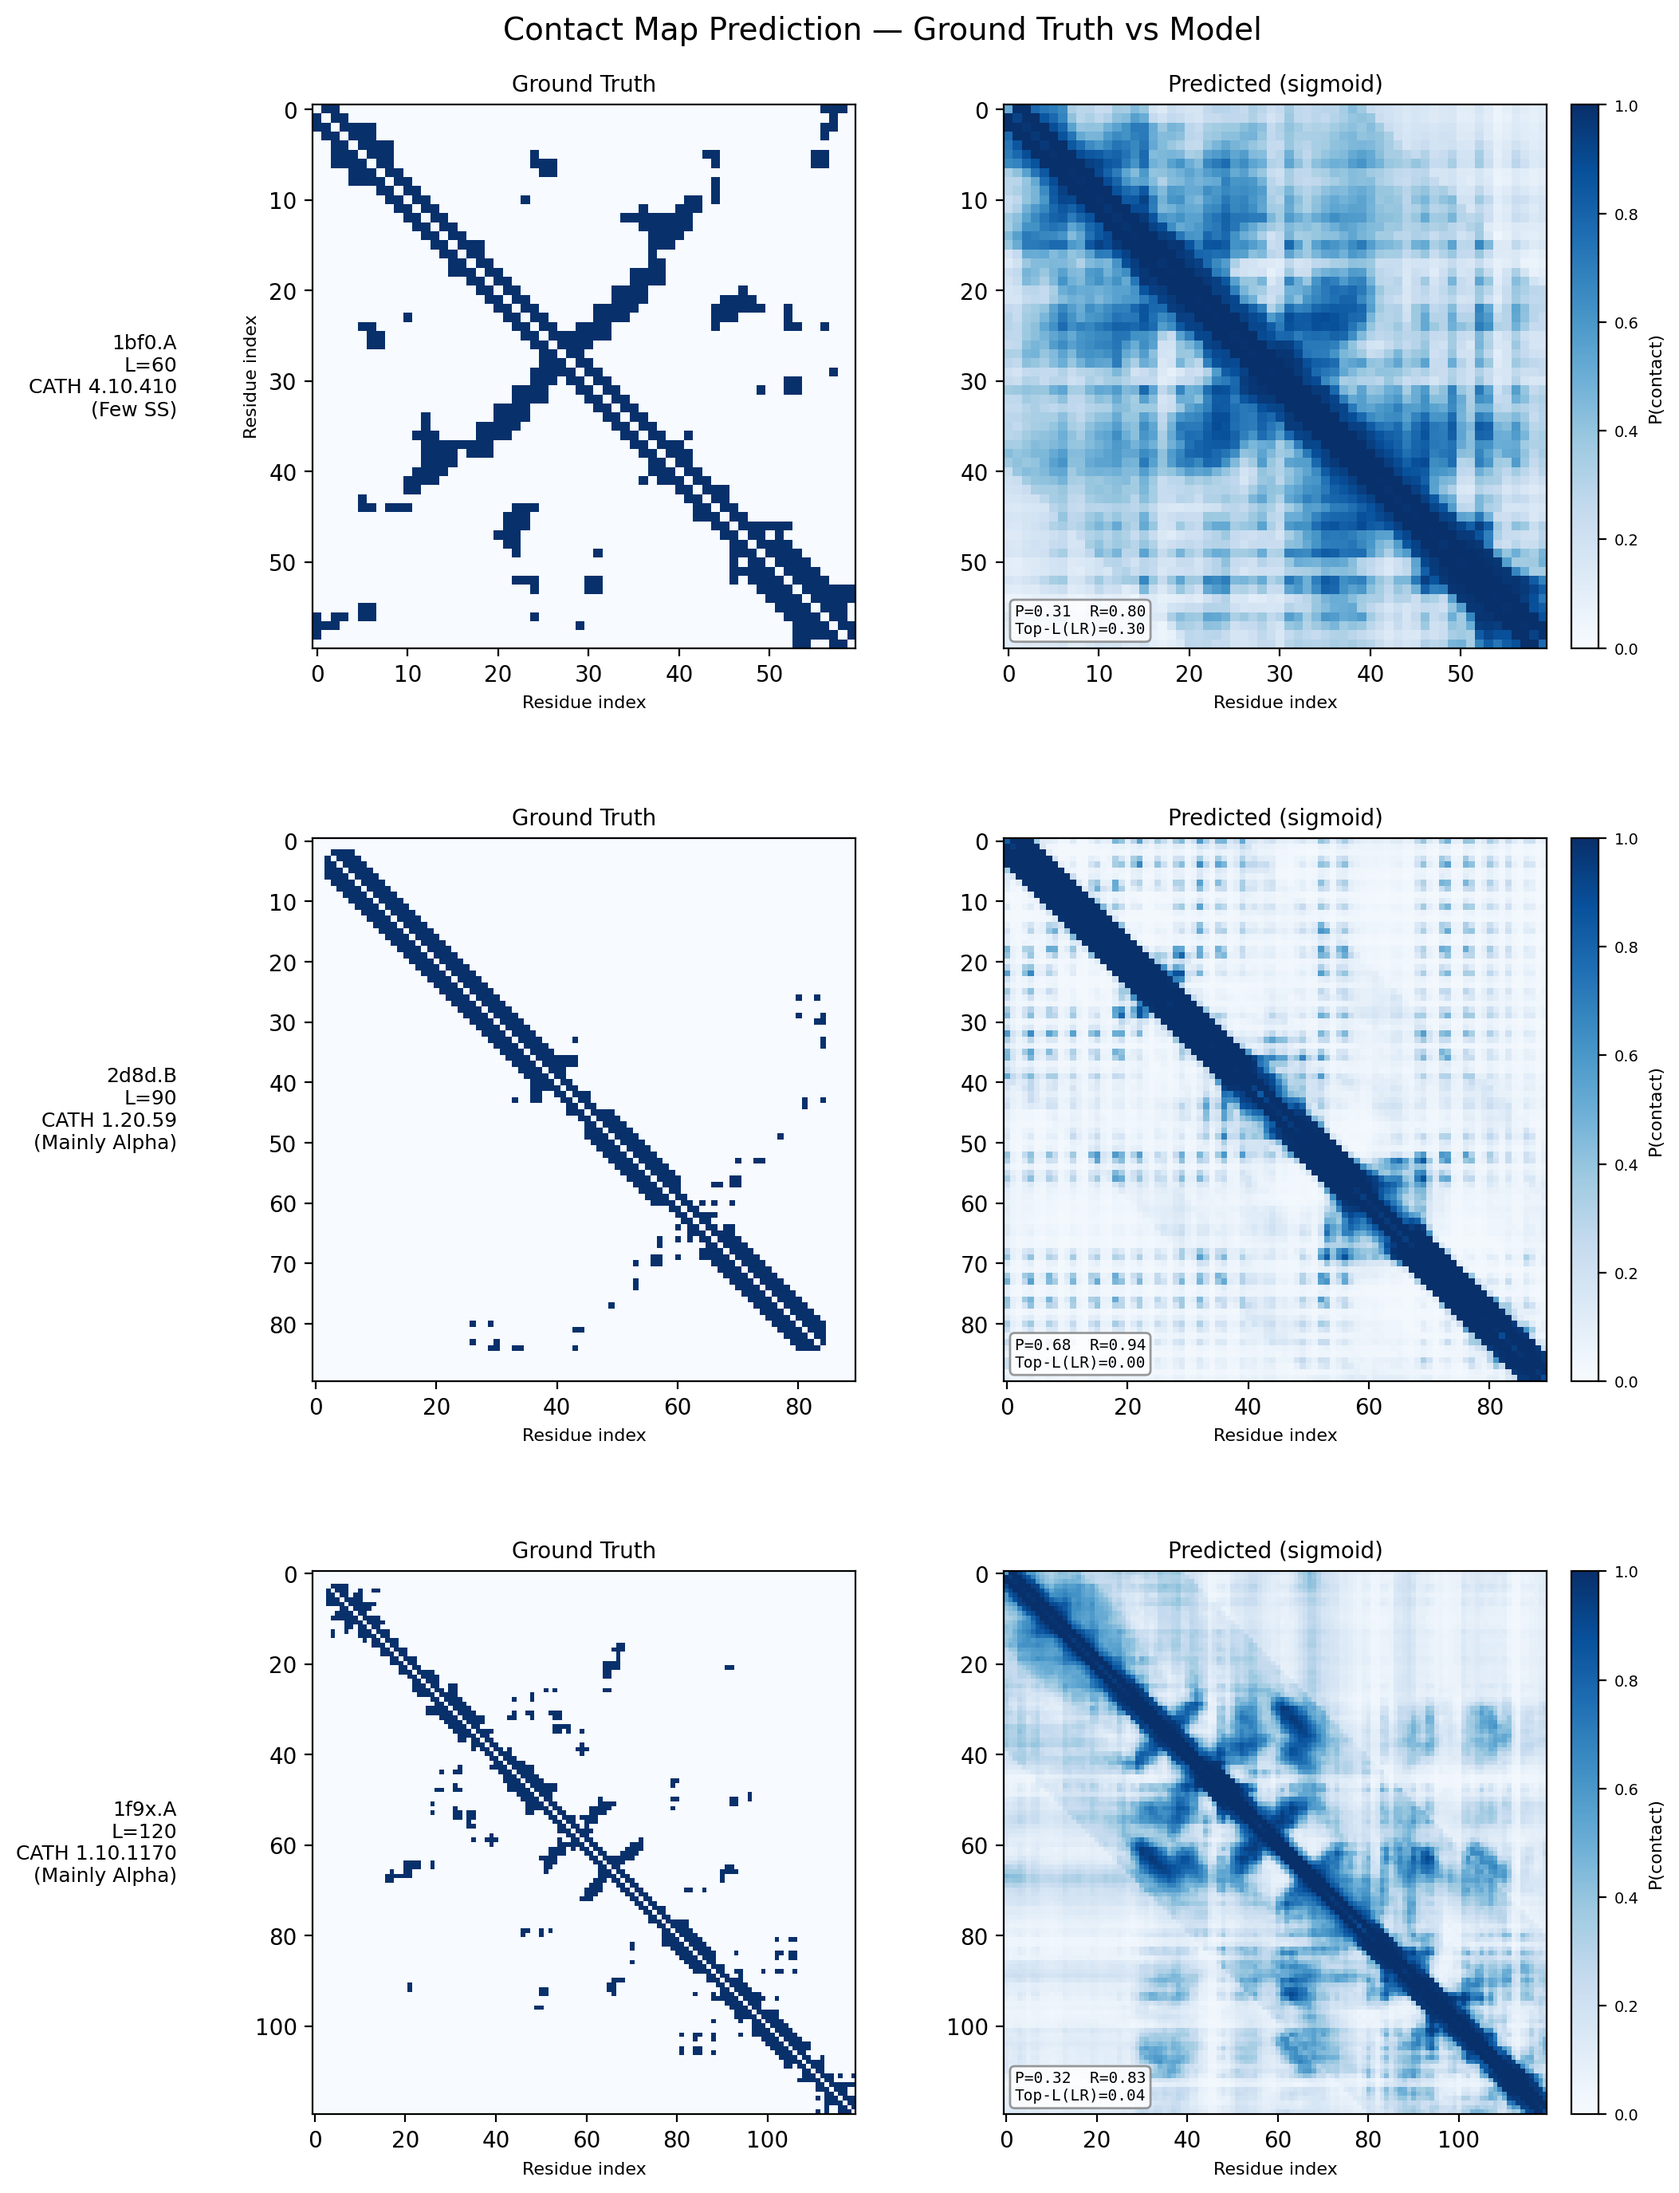
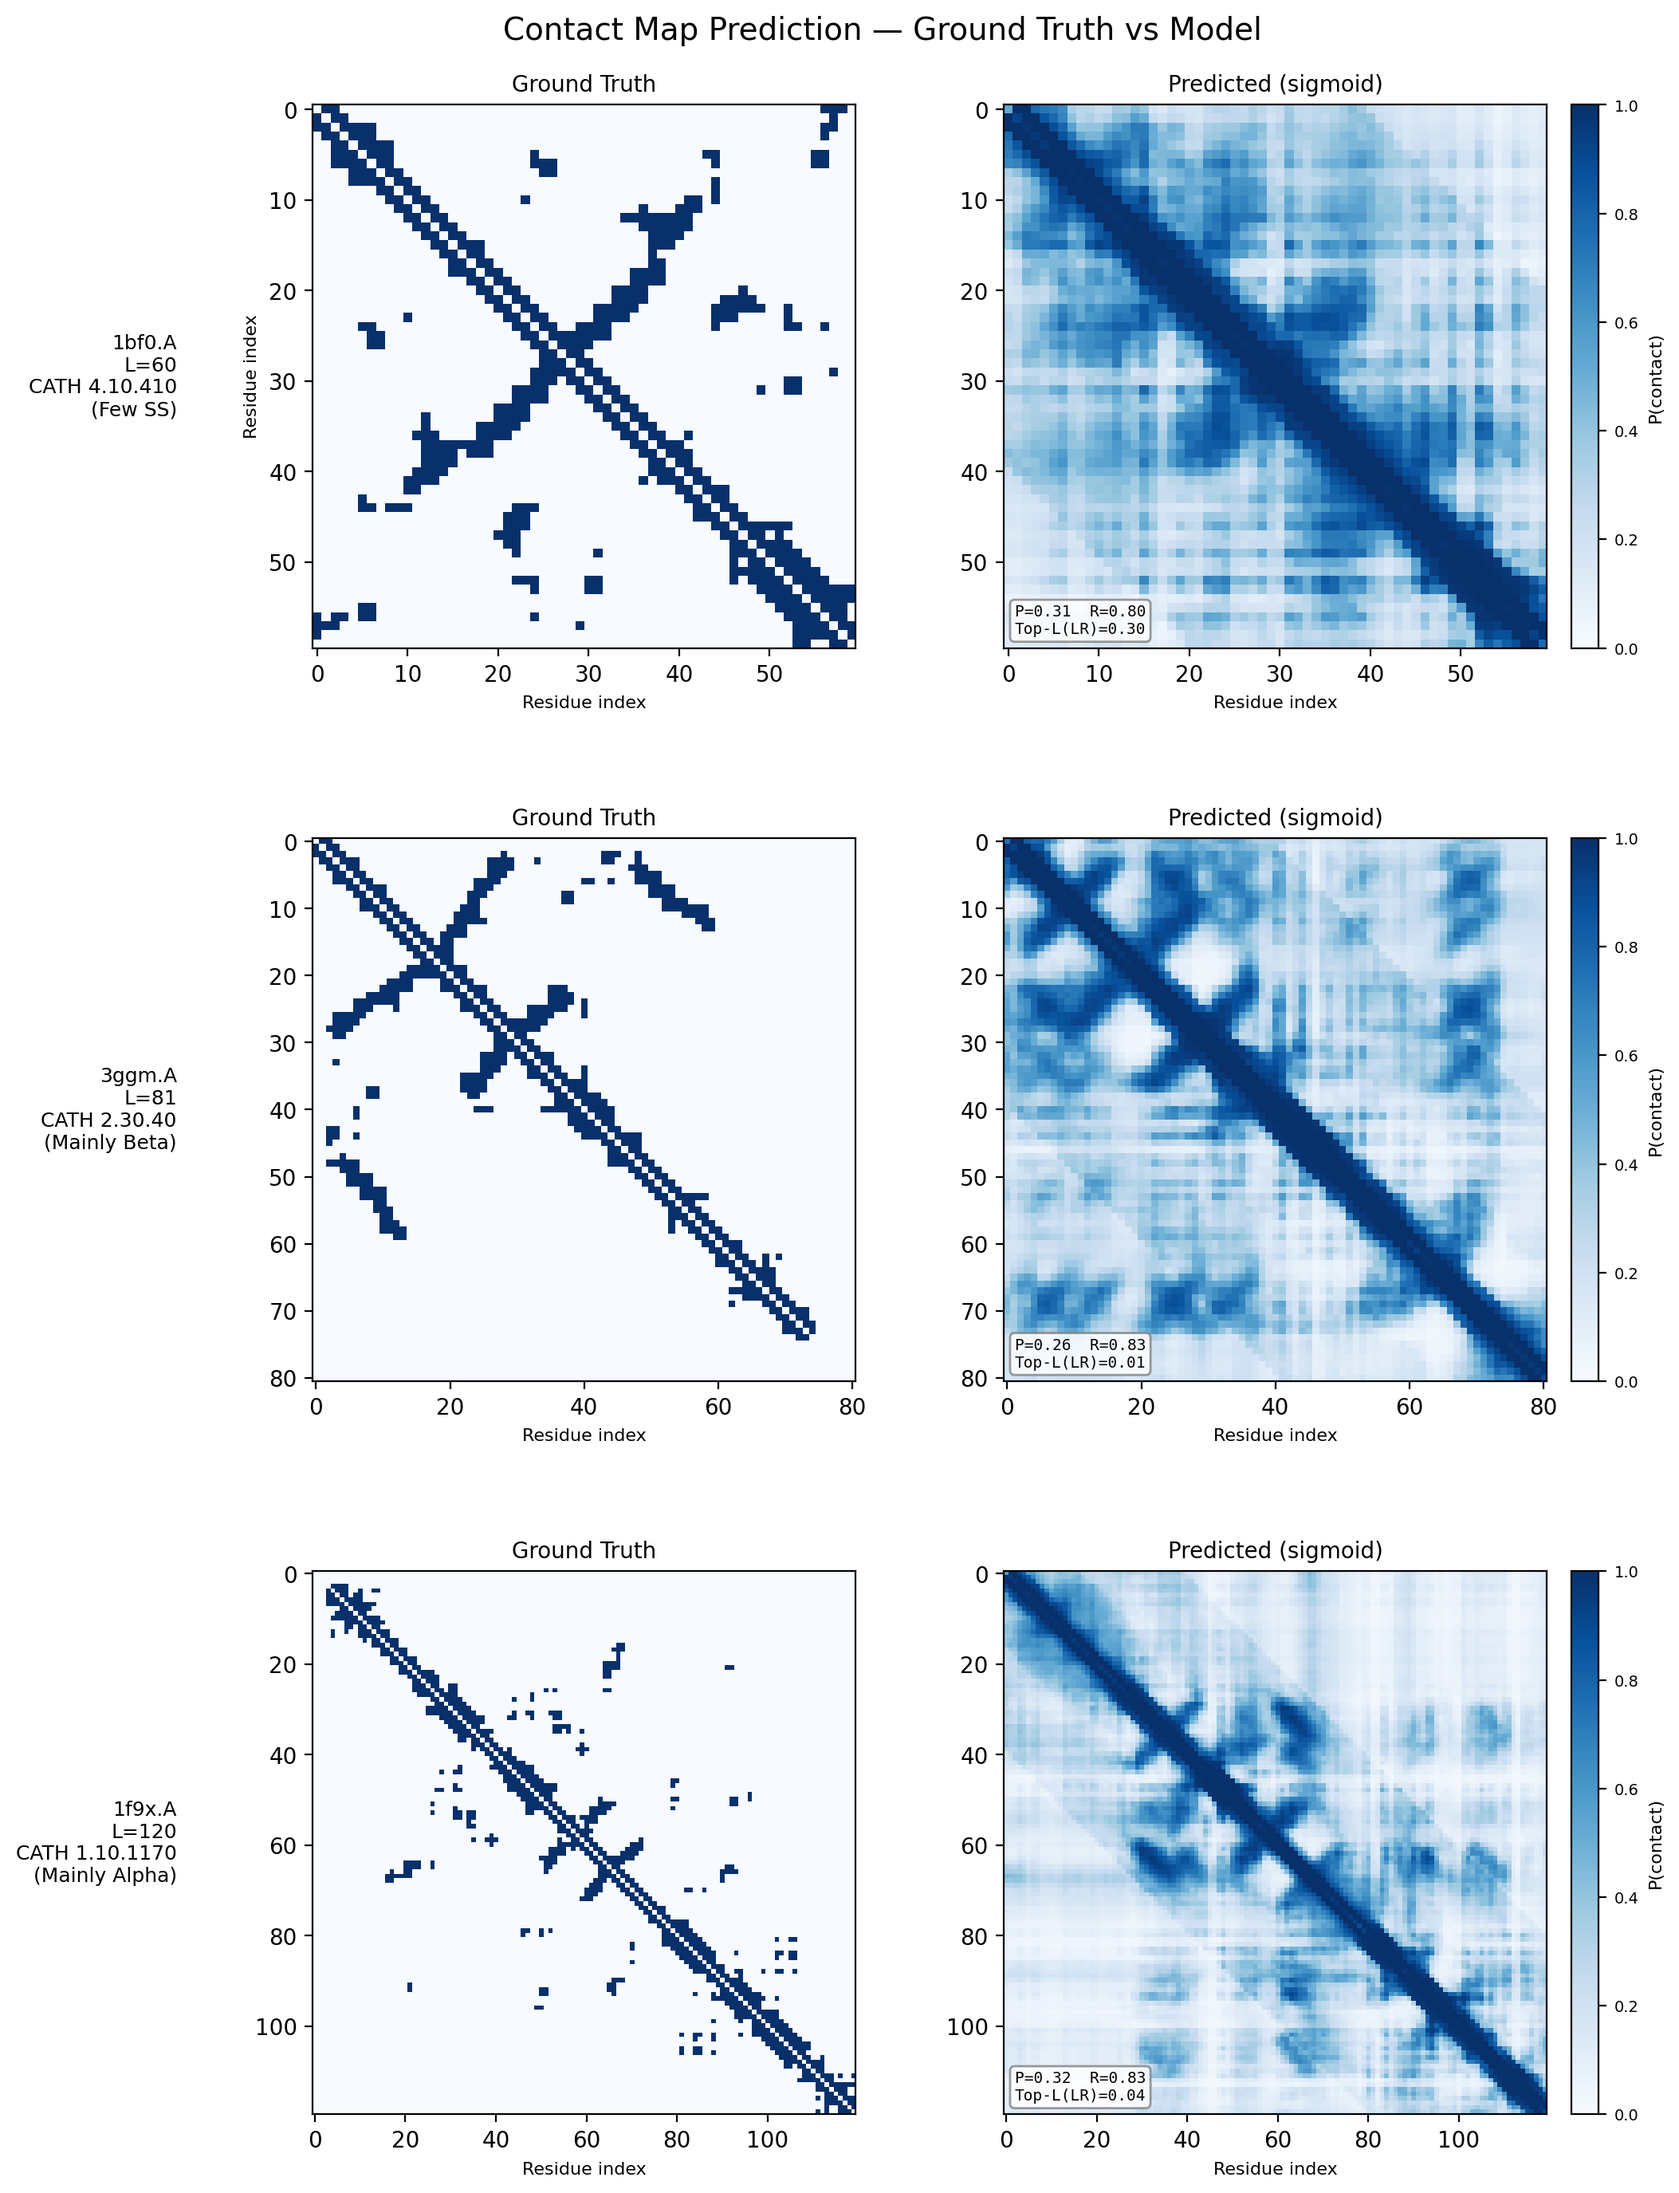
Update contact predictions with beta protein + add figure summaries
- Replace 2d8d.B (mainly alpha) with 3ggm.A (mainly beta) for class diversity
- Add interpretive captions for contact map and embedding figures

diff --git a/index.html b/index.html
@@ -1119,10 +1119,28 @@
         <div style="text-align: center; margin: 16px 0;">
           <img src="data/training/contact_predictions.png" alt="Ground truth vs predicted contact maps" style="max-width: 100%; border-radius: 6px; border: 1px solid var(--border);">
         </div>
+        <div class="training-observations">
+          <p style="margin-bottom: 8px;">
+            Each row shows a held-out test protein from a different CATH structural class. The left column is the ground truth contact map (binary: two C&alpha; atoms &lt; 8&Aring; apart), and the right column is the model&rsquo;s predicted probability of contact from sequence alone. Metrics (precision P, recall R, and Top-L long-range accuracy) are annotated on each prediction panel.
+          </p>
+          <ul>
+            <li><strong>1bf0.A</strong> (L=60, Few Secondary Structure): A small protein with sparse, irregular contacts. The model captures the overall topology despite limited structural regularity.</li>
+            <li><strong>3ggm.A</strong> (L=81, Mainly Beta): Beta-sheet proteins produce characteristic off-diagonal block patterns from strand&ndash;strand hydrogen bonding. The model recovers these long-range parallel and anti-parallel strand pairings well.</li>
+            <li><strong>1f9x.A</strong> (L=120, Mainly Alpha): Alpha-helical proteins show strong banded diagonal patterns from helix-internal i&rarr;i+4 contacts. The model reproduces both the local helical periodicity and inter-helix contacts at larger separations.</li>
+          </ul>
+          <p style="margin-top: 8px;">
+            These results demonstrate that a 1.2M-parameter transformer encoder trained from scratch on CATH 4.2 (~18k proteins) can learn meaningful spatial proximity signals across all major fold classes &mdash; without any pretrained language model or evolutionary information.
+          </p>
+        </div>
 
         <h4 class="training-progress-heading">Learned Embedding Space (PCA &amp; UMAP)</h4>
         <div style="text-align: center; margin: 16px 0;">
           <img src="data/training/embedding_clustering.png" alt="PCA and UMAP of learned protein embeddings colored by CATH class and architecture" style="max-width: 100%; border-radius: 6px; border: 1px solid var(--border);">
+        </div>
+        <div class="training-observations">
+          <p>
+            Attention-pooled protein embeddings (128-dim) from the encoder&rsquo;s val+test set, projected via PCA and UMAP. The encoder learns to separate CATH classes without explicit contrastive loss &mdash; mainly-alpha and mainly-beta proteins form distinct clusters, while alpha-beta proteins span the intermediate region. UMAP reveals finer sub-structure at the architecture level, with several CATH architectures forming tight, well-separated clusters (e.g., 3.40 Rossmann fold, 1.10 orthogonal bundle). This confirms the multi-task training objective (classification + contact prediction) produces structurally meaningful representations suitable for conditioning the downstream diffusion model.
+          </p>
         </div>
 
       </div>
